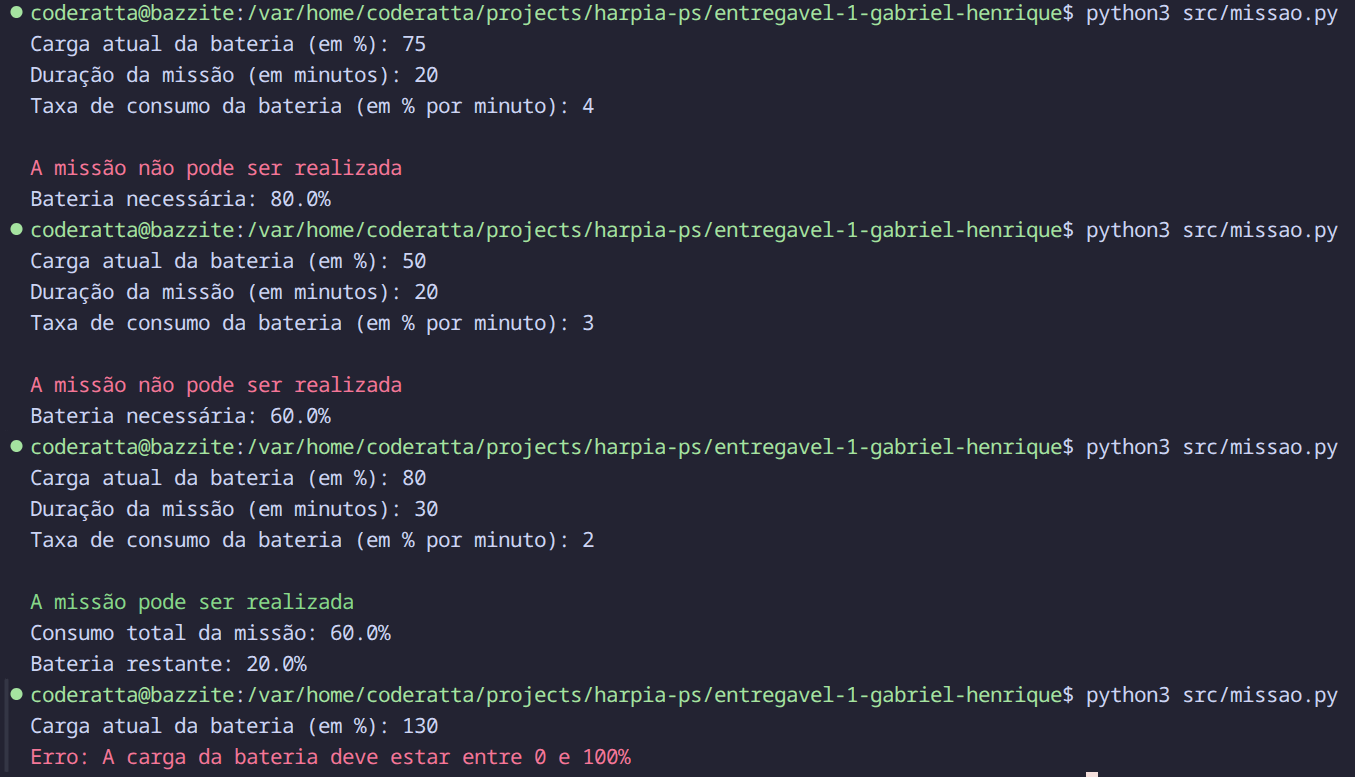
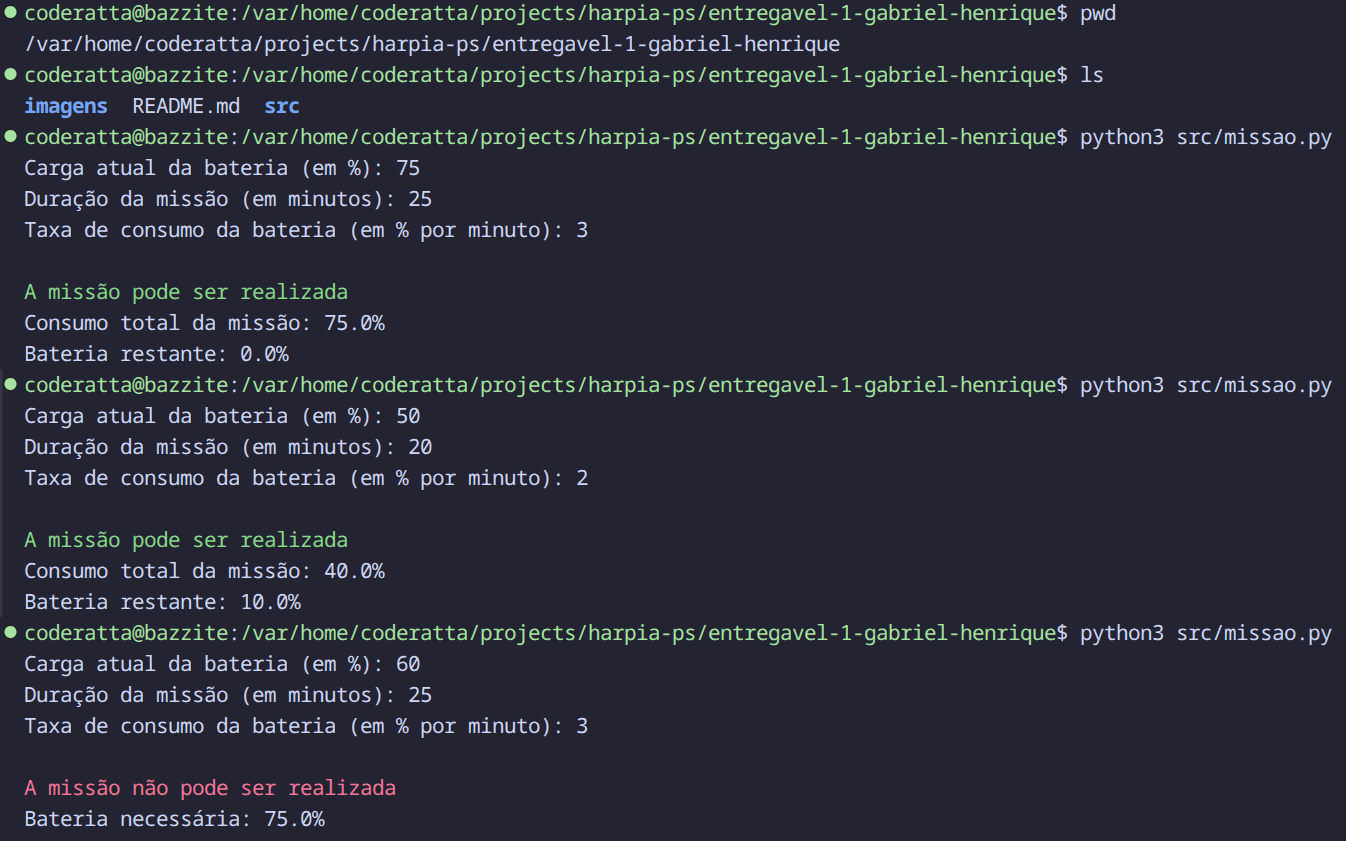
update README and image

Changed region(s): [[0.0, 0.0, 0.9985, 0.9884], [0.7801, 0.9884, 0.8113, 1.0]]

diff --git a/README.md b/README.md
@@ -1,6 +1,39 @@
 # entregavel-1-gabriel-henrique
-Entregavel da primeira semana do processo seletiva da UFRJ Harpia
 
-Um programa simples que calcula se a missao de um robo pode ser realizada sabendo-se a bateria inicial, a duração da missão e a taxa de descarregamento(considerada constante)
+>Entregável da primeira semana do processo seletiva da <span style="color:#A040FF">UFRJ Harpia<span>
+
+**Autor:** Gabriel Henrique Freitas Ribeiro
+
+## Descrição:
+Um programa simples que calcula se a missão de um robô pode ser realizada sabendo-se a bateria inicial, a duração da missão e a taxa de descarregamento(considerada constante)
 
 O programa pede essas informações e verifica se os valores são válidos e calcula o gasto de bateria ao final da missão. Se houver bateria o bastante ele retorna o consumo total e a bateria restante, se nao for o suficiente ele retorna a bateria necessária para o tempo da missão.
+
+## Execução:
+
+Usando o comando `python3 src/missao.py` a partir do diretório principal, o programa pedirá os valores um por um e devolver um veredito
+
+Exemplos de uso:
+
+## 💻 Exemplos de Uso
+
+### Com sucesso
+```text
+Carga atual da bateria (em %): 70
+Duração da missão (em minutos): 20
+Taxa de consumo da bateria (em % por minuto): 3
+
+A missão pode ser realizada
+Consumo total da missão: 60.0%
+Bateria restante: 10.0%
+```
+### Sem sucesso
+```text
+Carga atual da bateria (em %): 40
+Duração da missão (em minutos): 15
+Taxa de consumo da bateria (em % por minuto): 4
+
+A missão não pode ser realizada
+Bateria necessária: 60.0%
+```
+
